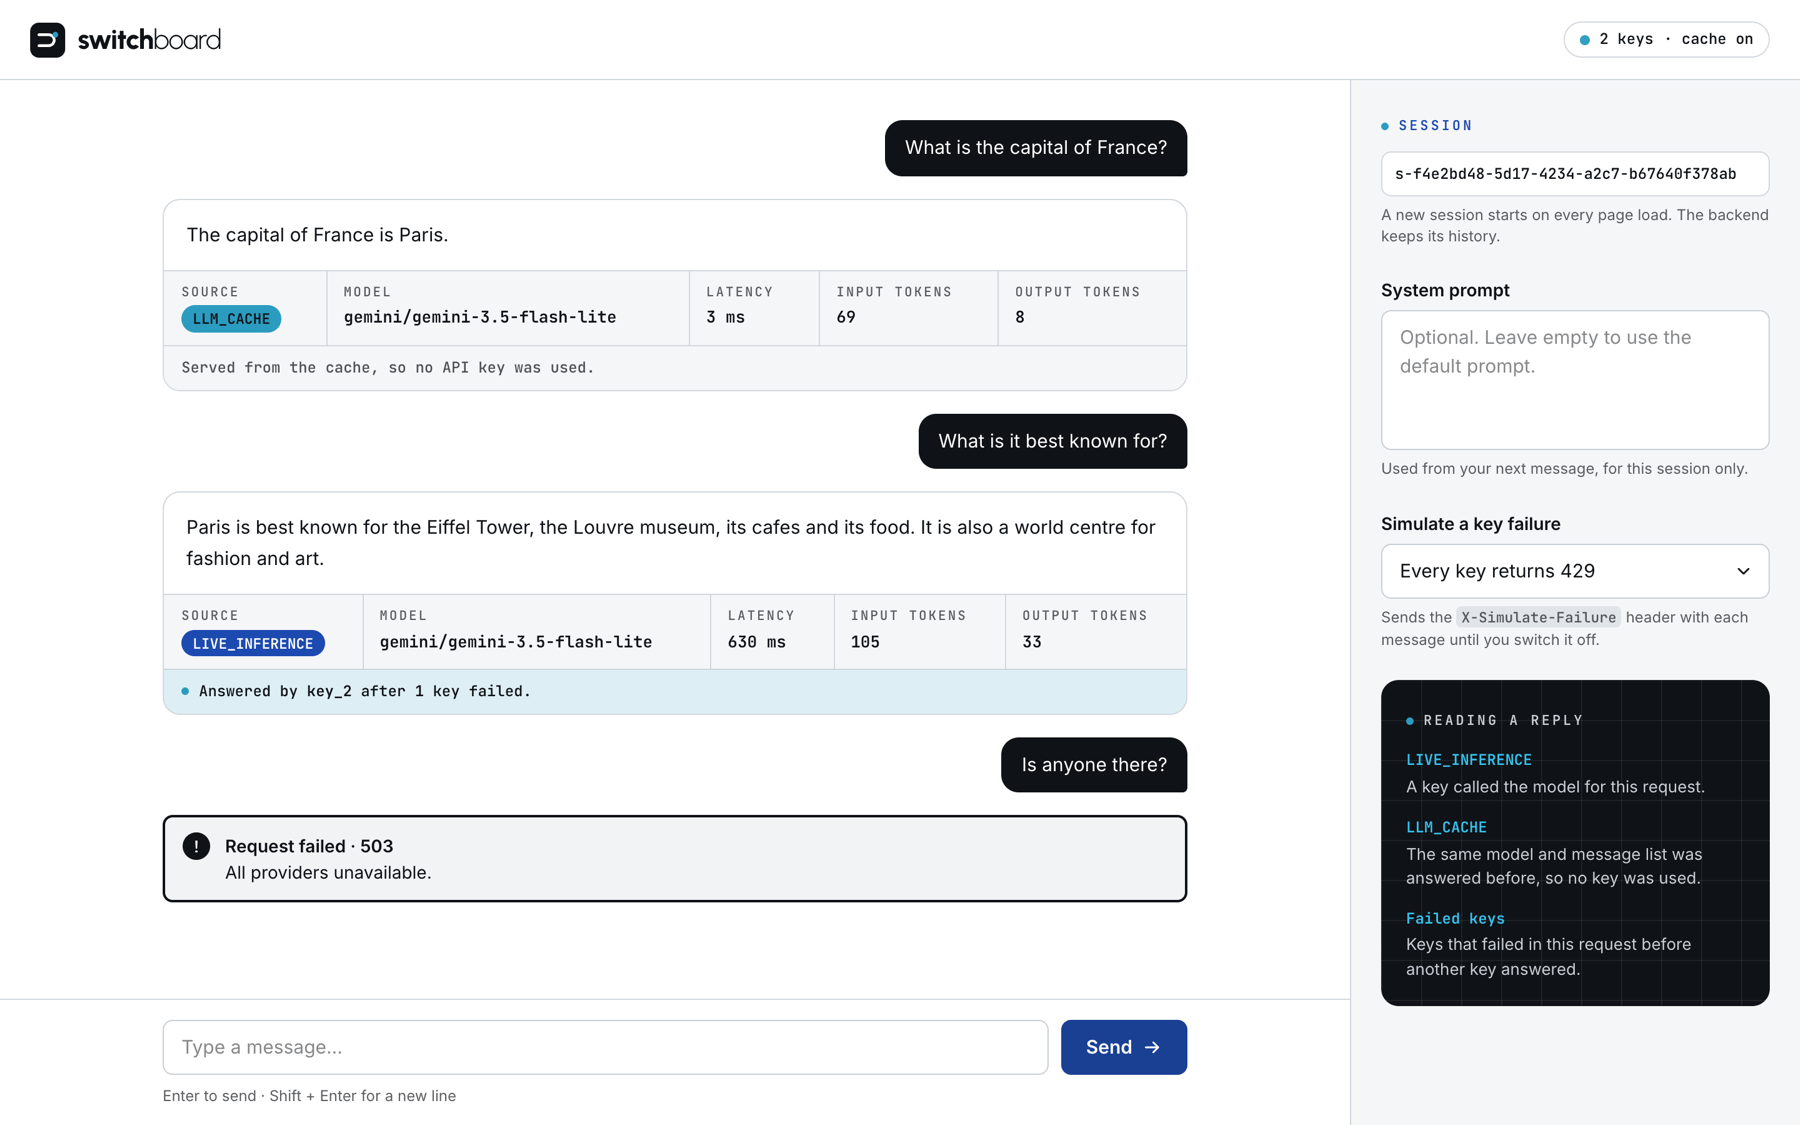
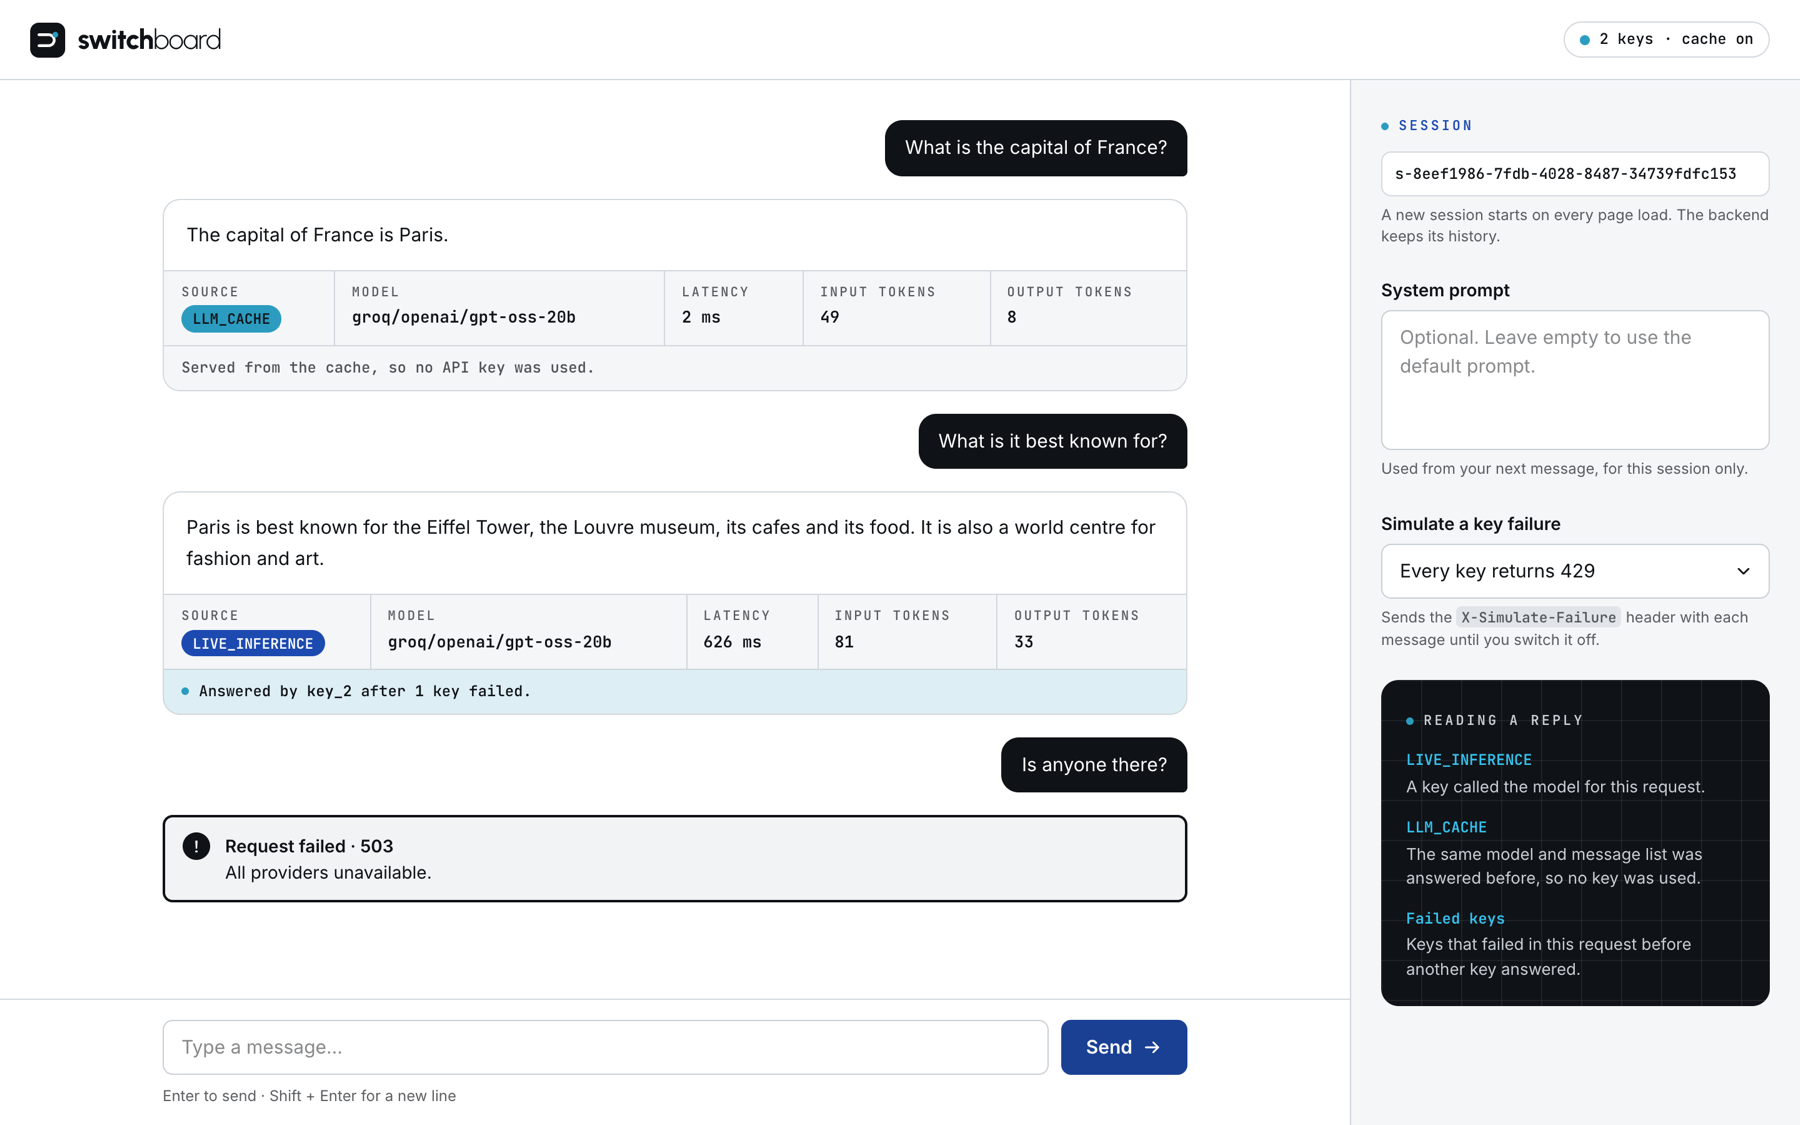
Use Groq as the default provider
The default model is now groq/openai/gpt-oss-20b, which runs on Groq's
free plan. The README, .env.example and the screenshot follow it.

diff --git a/backend/app/config.py b/backend/app/config.py
@@ -21,7 +21,7 @@ class Settings:
     def from_env(cls) -> "Settings":
         return cls(
             api_keys=_csv("LLM_API_KEYS"),
-            model=os.getenv("LLM_MODEL", "gemini/gemini-3.5-flash-lite"),
+            model=os.getenv("LLM_MODEL", "groq/openai/gpt-oss-20b"),
             database_url=os.getenv("DATABASE_URL", "sqlite:///./app.db"),
             allowed_origins=[origin.rstrip("/") for origin in _csv("ALLOWED_ORIGINS")],
             simulation_enabled=os.getenv("ENABLE_FAILURE_SIMULATION", "").strip().lower() == "true",

diff --git a/README.md b/README.md
@@ -31,7 +31,8 @@ restarts.
 
 ## 2. Run locally
 
-Both ways need a `.env` file with at least two API keys for the model's provider:
+Both ways need a `.env` file with at least two API keys for the model's provider. The default model
+runs on Groq's free plan, and the keys are created at https://console.groq.com/keys.
 
 ```bash
 cp .env.example .env      # then put your real keys in LLM_API_KEYS
@@ -80,7 +81,7 @@ make test        # or: cd backend && python3 -m pytest
 | Variable | Meaning |
 | --- | --- |
 | `LLM_API_KEYS` | Comma-separated key pool, at least 2 keys. Key ids are `key_1`, `key_2`, ... in this order. |
-| `LLM_MODEL` | LiteLLM model name used with every key. Default `gemini/gemini-3.5-flash-lite`. |
+| `LLM_MODEL` | LiteLLM model name used with every key. Default `groq/openai/gpt-oss-20b`. |
 | `LLM_API_BASE` | Optional base URL for a self-hosted or OpenAI-compatible provider. |
 | `DATABASE_URL` | SQLite location, for example `sqlite:////data/app.db`. |
 | `ALLOWED_ORIGINS` | Comma-separated CORS origins (the frontend URL). |
@@ -103,6 +104,9 @@ make test        # or: cd backend && python3 -m pytest
   cooldowns on.
 - **Every key failed:** the API answers `503 {"detail": "all providers unavailable"}` and stores
   nothing.
+- **What two keys cover.** Groq counts rate limits per organization, not per key, so keys from one
+  account share one quota. They cover a revoked or broken key. When the quota itself runs out,
+  every key fails and the answer is the 503 above.
 - **`key_id` and `fallback_attempts`** are read from LiteLLM's response: the id of the deployment
   that answered and the number of fallbacks it attempted.
 - **`X-Simulate-Failure`** is a LiteLLM pre-call hook. Just before LiteLLM calls a key that the
@@ -143,6 +147,9 @@ make test        # or: cd backend && python3 -m pytest
   404, and a catch-all handler turns anything unexpected into a plain 500 without a stack trace.
 - **Exactly three endpoints.** FastAPI's generated `/docs` and `/openapi.json` are switched off.
 - **Token counts are per request**, taken from the usage the provider returns for that call.
+- **The provider is one setting.** `LLM_MODEL` takes any LiteLLM model name, and every key in the
+  pool belongs to that model's provider. The default is `groq/openai/gpt-oss-20b`, which is on
+  Groq's free plan.
 - **`litellm` is pinned to 1.101.6.** Newer releases import optional proxy packages when a cached
   response is served, so a cache hit fails without them. `backend/requirements.txt` is a full lock.
 
